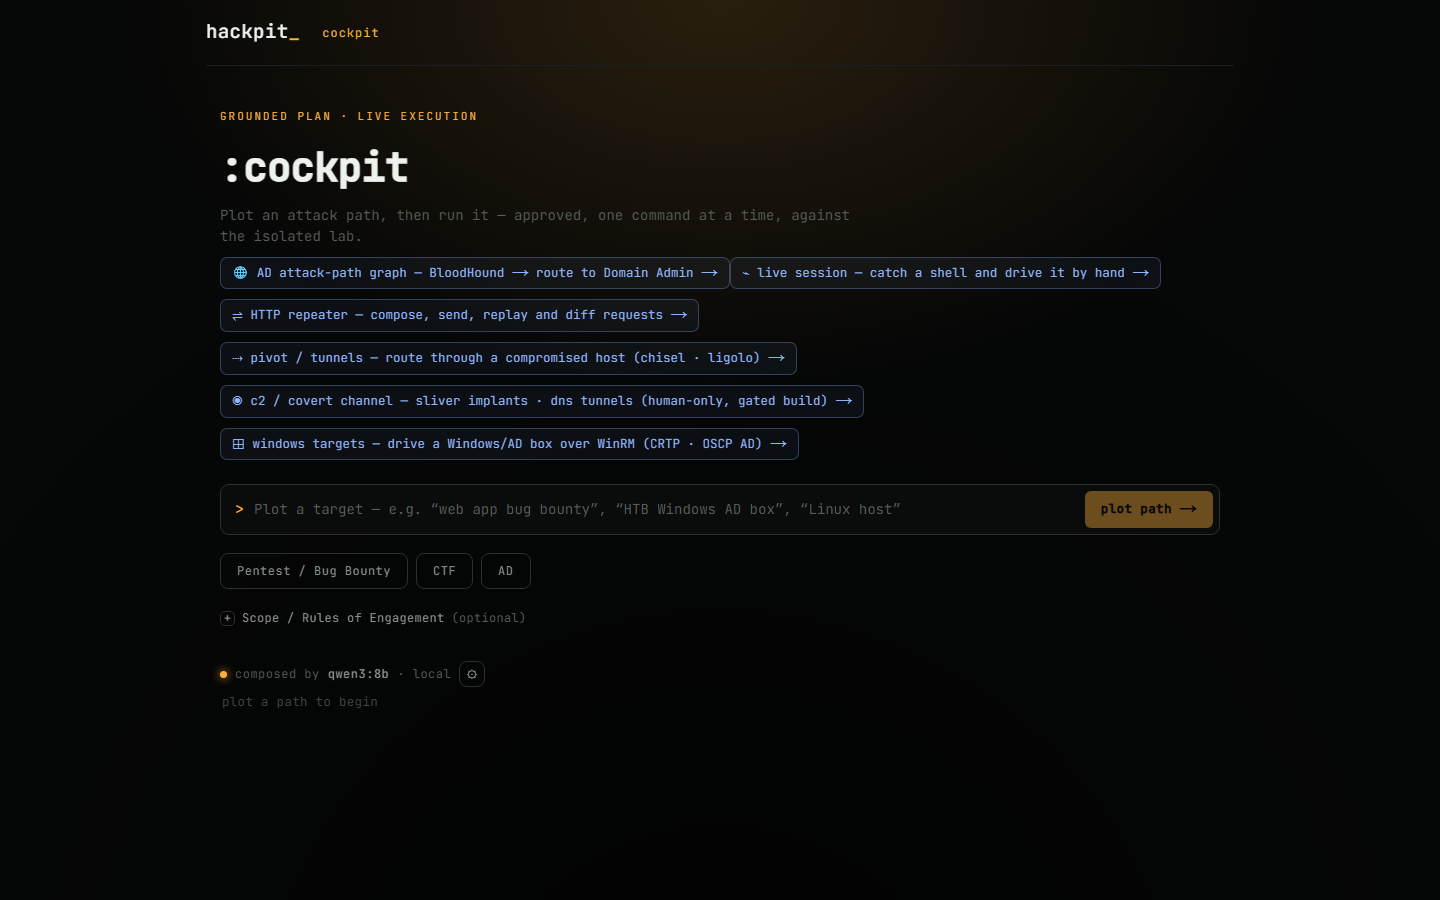
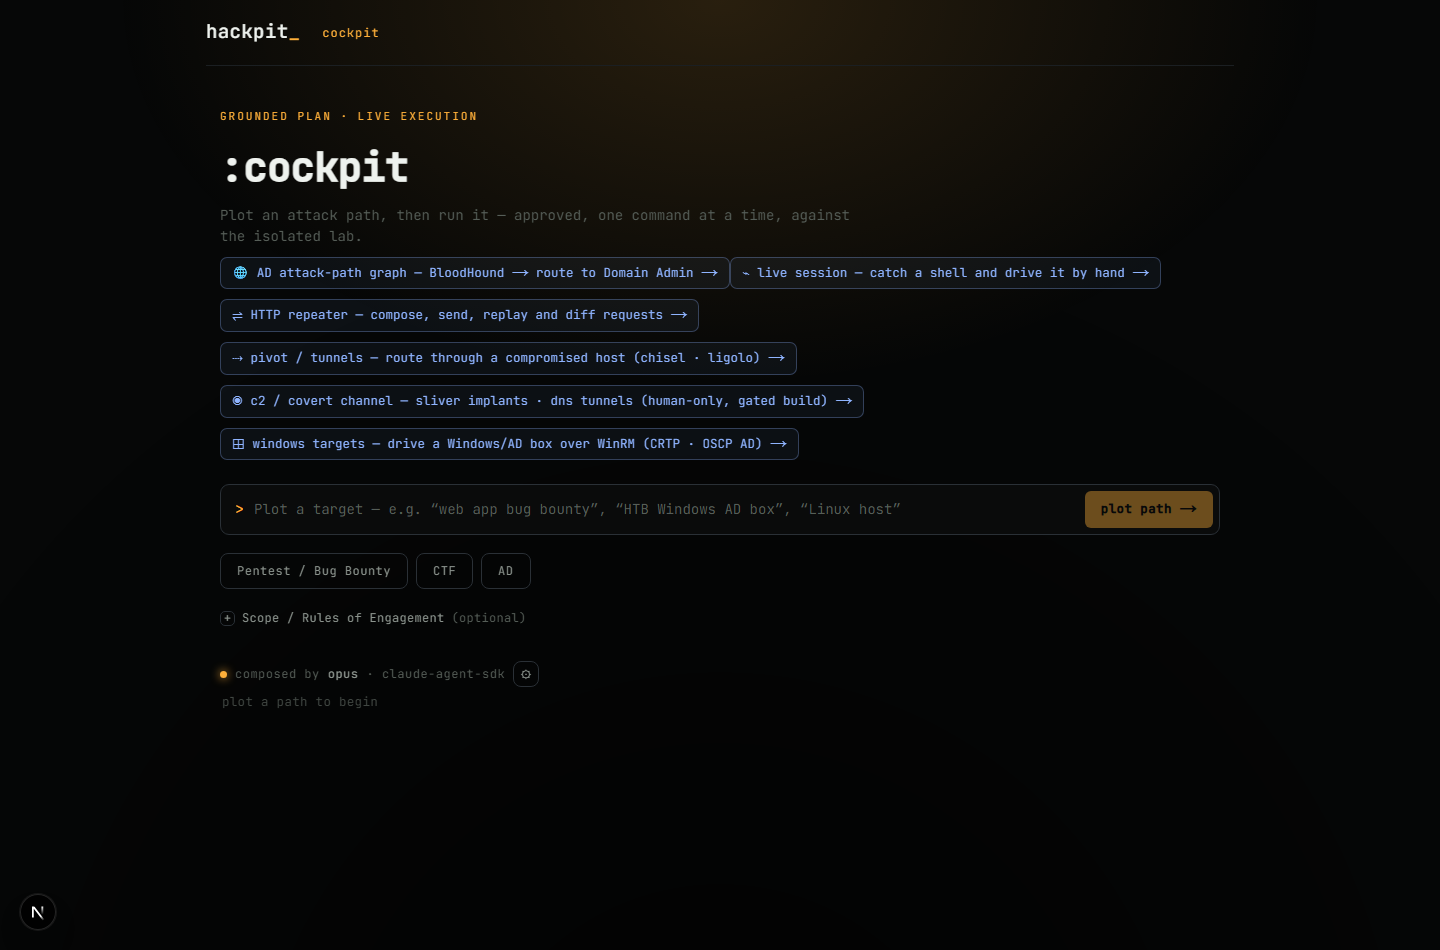
docs+llm: refresh stale screenshots, default to Claude Agent SDK (Opus), polish README
- Default LLM provider is now Claude Agent SDK (Opus) via the local `claude`
  CLI (no API key); Ollama stays the automatic offline fallback. Fixes the
  README's provider list (drops Groq/xAI, which the code never supported).
- Recaptured stale screenshots against the live app: 02-home (now shows the
  real 2,718/72/107 counters instead of the old 1,551) and 01-intro-splash;
  12-cockpit now shows the "composed by opus" footer.
- New 30-engagements screenshot (lab-only; the real bug-bounty targets in the
  engagement list were deliberately kept out of frame).
- README: added Claude-powered + offensive-security/bug-bounty badges, an
  active-engagements shot, a "Build notes — a case study" draft section, and
  an honest local-first framing (KB/search/execution local; composer = Claude
  by default, Ollama for fully-offline).

Hermetic safety suite: 93 files, all exit 0. Frontend untouched.

diff --git a/backend/llm.py b/backend/llm.py
@@ -51,26 +51,29 @@ VALID_PROVIDERS = ("ollama", "openai", "anthropic", "openrouter", "claude-agent-
 # and the Claude Agent SDK (the machine's Claude Code subscription login).
 _NO_KEY_PROVIDERS = ("ollama", "claude-agent-sdk")
 
-# Default provider is LOCAL Ollama — free, offline, needs no API key.
-# Default model is llama3.1:8b: it reliably grounds the attack-path composer.
-# qwen3:8b (a reasoning model) tends to produce steps that fail the grounding
-# pass -> a 503 "no usable steps"; llama3.1 does not. <think> blocks from any
-# reasoning model are still stripped in extract_json, so either works.
+# Default provider is the CLAUDE AGENT SDK (Opus) — it runs through the local
+# `claude` CLI (Claude Code) with NO API key, so a machine already logged into
+# Claude Code composes on a frontier model out of the box. If the `claude` CLI
+# is unavailable the call transparently falls back to local Ollama (see
+# `chat()` below), so the offline path still works with no configuration.
+# Ollama (llama3.1:8b) is the recommended fully-offline choice; llama3.1 grounds
+# the attack-path composer reliably, and any reasoning model's <think> blocks
+# are stripped in extract_json either way.
 DEFAULTS: dict[str, str] = {
-    "provider": "ollama",
-    "model": "llama3.1:8b",
+    "provider": "claude-agent-sdk",
+    "model": "opus",
     "host": "http://localhost:11434",  # only used by the ollama provider
 }
 
 # Sensible default model per remote provider, applied when a provider is chosen
 # without naming a model. The Agent SDK takes a Claude alias (sonnet/opus/haiku)
-# or a full id; default to Sonnet for a strong, cost-sane frontier completion.
+# or a full id; default to Opus for the strongest frontier completion.
 PROVIDER_DEFAULT_MODEL: dict[str, str] = {
     "ollama": "llama3.1:8b",
     "openai": "gpt-4o-mini",
     "anthropic": "claude-opus-4-8",
     "openrouter": "openai/gpt-4o-mini",
-    "claude-agent-sdk": "sonnet",
+    "claude-agent-sdk": "opus",
 }
 
 

diff --git a/README.md b/README.md
@@ -16,8 +16,11 @@
   <img alt="Next.js" src="https://img.shields.io/badge/Next.js-16-000000?style=flat-square&logo=nextdotjs&logoColor=white">
   <img alt="Tests" src="https://img.shields.io/badge/tests-93%20suites-brightgreen?style=flat-square">
   <img alt="Knowledge base" src="https://img.shields.io/badge/knowledge%20base-2%2C747%20entries-8A2BE2?style=flat-square">
+  <img alt="Powered by Claude" src="https://img.shields.io/badge/powered%20by-Claude%20Agent%20SDK%20(Opus)-D97757?style=flat-square&logo=anthropic&logoColor=white">
+  <img alt="Offensive security" src="https://img.shields.io/badge/offensive%20security-red%20team-b31b1b?style=flat-square">
+  <img alt="Pentest / bug bounty / CTF" src="https://img.shields.io/badge/pentest%20%C2%B7%20bug%20bounty%20%C2%B7%20CTF-8B0000?style=flat-square">
   <img alt="LLM safety" src="https://img.shields.io/badge/LLM-grounded%20%C2%B7%20no%20autonomy-9b59b6?style=flat-square">
-  <img alt="Local-first" src="https://img.shields.io/badge/local--first-Ollama-111111?style=flat-square">
+  <img alt="Local-first" src="https://img.shields.io/badge/local--first-Ollama%20fallback-111111?style=flat-square">
 </p>
 
 HackPit is an **AI-driven offensive-security companion with a gated execution cockpit**. It started as one thing — turn a scattered pile of pentest notes into a single searchable knowledge base — and grew into a second: a Kali cockpit where the AI plans the attack and you approve every command it runs.
@@ -27,7 +30,7 @@ Two ideas make it different from "an LLM that hacks":
 - **Grounded, not generated.** Every answer cites a real technique from *your* library. Commands come from the knowledge base, never invented by the model — and anything the AI does add is clearly badged `AI-SUGGESTED · VERIFY`.
 - **Proposes, never fires.** The agent plans the whole kill-chain, but a human approves each command individually. There is no autonomous mode — and that's a deliberate design choice, enforced in code, not a missing feature.
 
-It runs **local-first** on your own machine, so engagement data never has to leave it.
+It runs **local-first** — the knowledge base, hybrid search, and every execution surface stay on your machine. The default AI composer is the **Claude Agent SDK (Opus)**, driven through your local Claude Code login with no API key; switch to local **Ollama** any time you want a fully-offline setup where nothing leaves at all.
 
 <p align="center">
   <img src="assets/screenshots/02-home.png" alt="HackPit home — category grid and live knowledge-base counters" width="100%">
@@ -87,6 +90,14 @@ Describe a target and HackPit composes an ordered **recon → enumeration → ex
 ### Engagements, assistant & grounded reports
 
 Turn a path into a **living engagement** — checked steps, pasted evidence, captured hosts/creds/findings that persist. A **session-aware assistant** answers against your actual progress and cites real techniques. One click drafts a **grounded report** (exec summary, scope, methodology, attack narrative) built from your evidence — with OSCP-style proof tables and **CVSS 3.1 computed, not asserted**.
+
+Every saved path lives in one place, with its own progress and evidence tracked locally:
+
+<p align="center">
+  <img src="assets/screenshots/30-engagements.png" alt="The engagements list — saved attack paths with per-engagement progress" width="80%">
+</p>
+
+Open one and it's a working engagement; finish it and the report writes itself from what you actually did:
 
 <p align="center">
   <img src="assets/screenshots/07-engagement.png" alt="A live engagement with checked steps and pasted results" width="49%">
@@ -210,9 +221,17 @@ HackPit ships an optional **Model Context Protocol server** (`backend/mcp_server
 
 ---
 
-## 🤖 Multi-provider LLM — local-first, key-swappable
+## 🤖 Multi-provider LLM — Claude by default, swappable
 
-Defaults to a **local Ollama** runtime — `qwen3:8b` for composition and chat, `nomic-embed-text` for embeddings, `llava` for note-image captions — so nothing leaves your machine. Prefer a hosted model? Drop a key for **OpenAI · Anthropic · Groq · OpenRouter · xAI** and swap without touching code.
+The default composer is the **Claude Agent SDK (Opus)** — it runs through your local `claude` CLI (Claude Code) with **no API key**, so a machine already signed into Claude Code reasons on a frontier model out of the box. Every other provider is one config change away, and the choice is honest about where your data goes:
+
+| Provider | Model(s) | Notes |
+|---|---|---|
+| **Claude Agent SDK** *(default)* | `opus` (or `sonnet` / `haiku`) | No key — uses your Claude Code login. Prompts go to Anthropic. |
+| **Ollama** *(offline)* | `qwen3:8b`, `nomic-embed-text`, `llava` | Fully local — nothing leaves the machine. The automatic fallback if the `claude` CLI is unavailable. |
+| **OpenAI · Anthropic · OpenRouter** | your choice | Drop an API key and swap without touching code. |
+
+Embeddings for the vector half of search always run locally on **Ollama** (`nomic-embed-text`), independent of the composer you pick.
 
 ---
 
@@ -304,8 +323,9 @@ Stated plainly rather than left to be discovered:
 | **Backend** | FastAPI, Uvicorn, NumPy, Python 3.14 |
 | **Execution** | Docker — one Kali image, three containers with different runtime postures |
 | **Search** | Hybrid BM25 (lexical) + vector (cosine over local embeddings) |
-| **LLM (local)** | Ollama — `qwen3:8b`, `nomic-embed-text`, `llava` |
-| **LLM (optional)** | OpenAI · Anthropic · Groq · OpenRouter · xAI (key-swappable) |
+| **LLM (default)** | Claude Agent SDK (Opus) via the local `claude` CLI — no API key |
+| **LLM (offline)** | Ollama — `qwen3:8b`, `nomic-embed-text`, `llava` |
+| **LLM (API, optional)** | OpenAI · Anthropic · OpenRouter (key-swappable) |
 | **Windows/AD** | `pywinrm` (NTLM/Negotiate, pass-the-hash) — optional, live-target only |
 | **Detection data** | ATT&CK v19 + SigmaHQ, verified against live upstream |
 | **Integration** | Model Context Protocol server (15 read-only tools) |
@@ -394,6 +414,35 @@ Actively built. The KB, search, attack paths, engagements, reports, cockpit, web
 ## Why I built it
 
 <!-- TODO(Zaid): your own words. -->
+
+---
+
+## 🛠 Build notes — a case study
+
+<!-- Draft in a first-person voice for you to keep, cut, or rewrite. -->
+
+HackPit was as much an experiment in **AI-native development** as it was an offensive-security tool. I didn't hand-write every layer — I directed a model through the build and made the architecture, safety, and integration calls in between. Here's the honest version of how it went.
+
+**The pipeline**
+
+- **Code, tests & the safety architecture** — built with **Claude (Claude Code, Opus)**, with me directing the design, the four-gate model, and every safety invariant. The project is now 90+ test files of guards, many of which exist only to prove a gate *fires*.
+- **The knowledge base** — synthesized from my own notes plus public sources through a local `ingest → normalize → consolidate → embed` pipeline, with embeddings on Ollama's `nomic-embed-text`. Raw sources stay git-ignored; only the pipeline and per-source manifests ship.
+- **The reasoning** — the attack-path composer and cockpit planner run on the same Claude Agent SDK the app now defaults to, grounded so they can only cite techniques the KB actually holds.
+
+**What broke, and how I fixed it** — the fixes are the engineering:
+
+- **A green test suite hid real bugs.** Live-fire runs found defects the hermetic suite couldn't. The out-of-band backend decrypted callbacks with the wrong AES mode (CFB instead of CTR) — and the hermetic test *agreed with its own bug*; only a real round-trip against a public OAST server caught it.
+- **A safety gate that could be side-stepped.** The danger heuristic classified the first token of a WinRM command while the transport ran the whole joined script — so the red-confirm could be dodged on that path. Found by reading the code adversarially, recorded rather than papered over.
+- **"OK" is not a result.** A crawl returned `{"Result":"OK"}` and zero URLs three different ways (a loopback-bound container, Chromium refusing to run as root, ZAP preferring its own bundled chromedriver) before I learned to assert the *outcome*, never the exit code.
+- **The frontend can't be trusted to the type-checker.** `tsc`, `next build`, and eslint can't see whether a CSS class exists or an animation actually reveals — a screen isn't verified until it's been *looked at*. (Even the screenshots in this README are captured headlessly and then eyeballed one by one.)
+
+**What I'd do differently / roadmap**
+
+- **Authentication.** Every route is unauthenticated; localhost-only is the current mitigation and a hard blocker before any non-localhost deployment. It's the next thing.
+- **Prove the deferred surfaces in the field.** The C2 callback, a delegated DNS zone, and a detonated artifact on an instrumented host need a VPS — they're verified structurally today, not live.
+- **Grow tier-1.** The KB is 2,747 entries but only 132 are my own authored notes — the highest-leverage work left is writing, not ingesting.
+
+Honestly: the safety model is the part I'm most careful about, and it's also the part that most constrained the "just let it run" fun — which is exactly the point.
 
 ---
 
